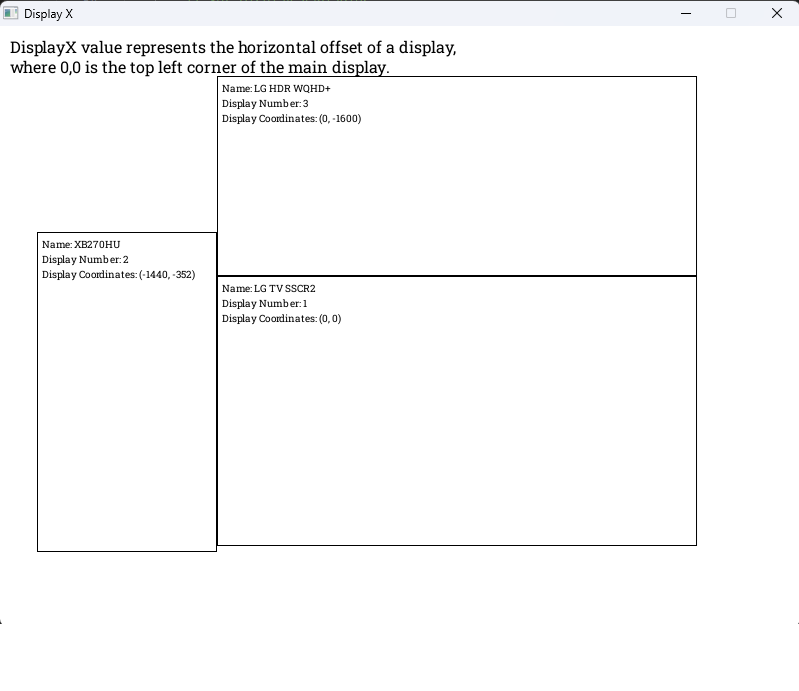
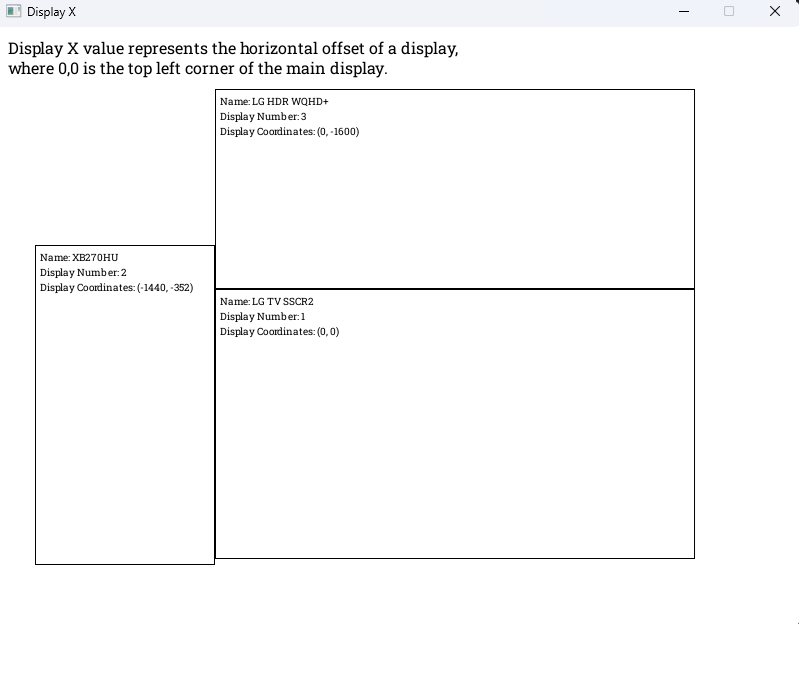
Update based on peer reviews

diff --git a/public/usage-examples/graphics/display_x-2-example-oop.cs b/public/usage-examples/graphics/display_x-2-example-oop.cs
@@ -1,6 +1,5 @@
 using SplashKitSDK;
 
-
 namespace DisplayXExample2
 {
     public class Program
@@ -45,8 +44,14 @@ namespace DisplayXExample2
                 dispNames[i] = dispName;
 
                 // Set min coordinate offset for drawing
-                if (dispX < minX) minX = dispX;
-                if (dispY < minY) minY = dispY;
+                if (dispX < minX)
+                {
+                    minX = dispX;
+                }
+                if (dispY < minY)
+                {
+                    minY = dispY;
+                }
             }
 
             Window wind = SplashKit.OpenWindow("Display X", 800, 600);
@@ -56,8 +61,8 @@ namespace DisplayXExample2
                 // Set Display Variables
                 int originX = dispStore[i, 0];
                 int originY = dispStore[i, 1];
-                int lenX = dispStore[i, 2];
-                int lenY = dispStore[i, 3];
+                int lenW = dispStore[i, 2];
+                int lenH = dispStore[i, 3];
 
                 // Create strings for display
                 string displayNameString = $"Name: {dispNames[i]}";
@@ -66,12 +71,12 @@ namespace DisplayXExample2
 
                 // Refactor size and normalize for 300,300 origin in window
                 originX = (originX - minX + 300) / 8;
-                originY = (originY - minY + 400) / 8;
-                lenX = lenX / 8;
-                lenY = lenY / 8;
+                originY = (originY - minY + 500) / 8;
+                lenW = lenW / 8;
+                lenH = lenH / 8;
 
                 // Draw Display setup to screen and label
-                Rectangle disp = SplashKit.RectangleFrom(originX, originY, lenX, lenY);
+                Rectangle disp = SplashKit.RectangleFrom(originX, originY, lenW, lenH);
                 wind.DrawRectangle(Color.Black, disp);
                 wind.DrawText(displayNameString, Color.Black, font, 10, originX + 5, originY + 5);
                 wind.DrawText(displayNumString, Color.Black, font, 10, originX + 5, originY + 20);

diff --git a/public/usage-examples/graphics/display_x-2-example-top-level.cs b/public/usage-examples/graphics/display_x-2-example-top-level.cs
@@ -1,7 +1,6 @@
 using SplashKitSDK;
 using static SplashKitSDK.SplashKit;
 
-
 // Load Font
 Font font = LoadFont("font", "RobotoSlab.ttf");
 
@@ -40,8 +39,14 @@ for (uint i = 0; i < dispCount; i++)
     dispNames[i] = dispName;
 
     // Set min coordinate offset for drawing
-    if (dispX < minX) minX = dispX;
-    if (dispY < minY) minY = dispY;
+    if (dispX < minX)
+    {
+        minX = dispX;
+    }
+    if (dispY < minY)
+    {
+        minY = dispY;
+    }
 }
 
 Window wind = OpenWindow("Display X", 800, 600);
@@ -51,8 +56,8 @@ for (int i = 0; i < dispCount; i++)
     // Set Display Variables
     int originX = dispStore[i, 0];
     int originY = dispStore[i, 1];
-    int lenX = dispStore[i, 2];
-    int lenY = dispStore[i, 3];
+    int lenW = dispStore[i, 2];
+    int lenH = dispStore[i, 3];
 
     // Create strings for display
     string displayNameString = $"Name: {dispNames[i]}";
@@ -61,12 +66,12 @@ for (int i = 0; i < dispCount; i++)
 
     // Refactor size and normalize for 300,300 origin in window
     originX = (originX - minX + 300) / 8;
-    originY = (originY - minY + 400) / 8;
-    lenX = lenX / 8;
-    lenY = lenY / 8;
+    originY = (originY - minY + 500) / 8;
+    lenW = lenW / 8;
+    lenH = lenH / 8;
 
     // Draw Display setup to screen and label
-    Rectangle disp = RectangleFrom(originX, originY, lenX, lenY);
+    Rectangle disp = RectangleFrom(originX, originY, lenW, lenH);
     DrawRectangle(ColorBlack(), disp);
     DrawTextOnWindow(wind, displayNameString, ColorBlack(), font, 10, originX + 5, originY + 5);
     DrawTextOnWindow(wind, displayNumString, ColorBlack(), font, 10, originX + 5, originY + 20);

diff --git a/public/usage-examples/graphics/display_x-2-example-sk.cpp b/public/usage-examples/graphics/display_x-2-example-sk.cpp
@@ -43,8 +43,14 @@ int main()
         disp_names[i] = disp_name;     
 
         // Set min coordinate offset for drawing
-        if (disp_x < min_x) min_x = disp_x;
-        if (disp_y < min_y) min_y = disp_y;
+        if (disp_x < min_x) 
+        {
+            min_x = disp_x;
+        }
+        if (disp_y < min_y)
+        {
+            min_y = disp_y;
+        } 
     }
 
     window wind = open_window("Display X", 800, 600);
@@ -64,7 +70,7 @@ int main()
 
         // Refactor size and normalize for 300,300 origin in window
         origin_x = (origin_x - min_x + 300) / 8;
-        origin_y = (origin_y - min_y + 400) / 8;
+        origin_y = (origin_y - min_y + 500) / 8;
         len_w = len_w / 8;
         len_h = len_h / 8;
 

diff --git a/public/usage-examples/graphics/display_x-2-example.py b/public/usage-examples/graphics/display_x-2-example.py
@@ -52,7 +52,7 @@ for i, display in enumerate(disp_store):
 
     # Refactor size and normalize for 300,300 origin in window
     origin_x = (origin_x - min_x + 300)/8
-    origin_y = (origin_y - min_y + 400)/8
+    origin_y = (origin_y - min_y + 500)/8
     len_w = len_w/8
     len_h = len_h/8
     
